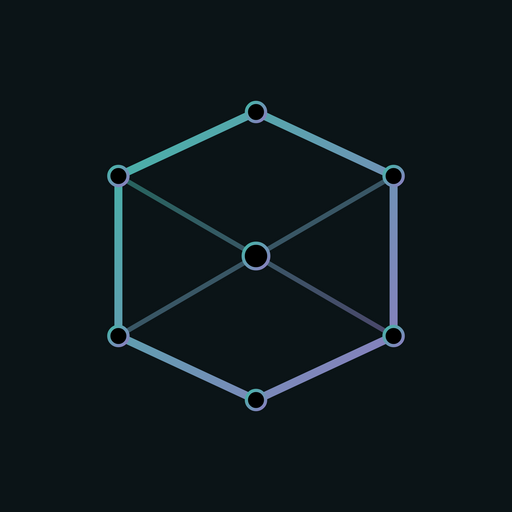
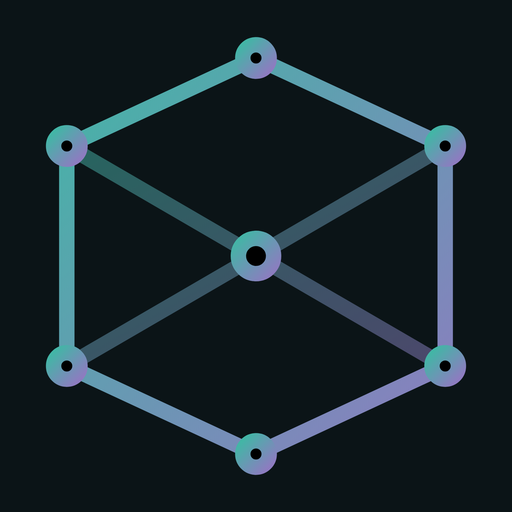
fix(brand): reemplazar assets obsoletos, corregir CSS/footer/SEO/PWA
- Reemplaza icon-512.png (hash 51e2→45cd), icon-192.png, favicon-32.png,
  apple-touch-icon.png y favicon.ico (ahora multi-size 16+32+48) con assets
  de marca eikon/pinakotheke-agon.
- icon-192.png e icon-512.png ahora TrueColorAlpha (RGBA) para Android PWA.
- Reemplaza icon.svg y favicon.svg (eran SVG genérico SV) con isotipo Agón.
- Borra asset huérfano public/logo-navbar.png (cero usos en src, causaba 404).
- Elimina exclusión ?logo del rewrite en vercel.json (asset eliminado).
- CSS: corrige var (--secondary-color) y var (--success-border) con espacio
  inválido (App.css:175 y :436). Confirmado ausente en dist/assets/*.css.
- Footer App.jsx: reemplaza enlace Enterprise/#enterprise por
  Ingeniería/#ingenieria (frente canónico correcto, bilingüe).
- index.html: añade og:image:secure_url y og:image:type=image/png;
  theme-color dual con media query prefers-color-scheme (claro+oscuro);
  favicon.ico con sizes="16x16 32x32 48x48"; apple-touch-icon con sizes="180x180".
- vite.config.js: añade purpose:'any maskable' a los iconos PWA.
- Build local limpio (npm run build, sin errores).

Changed region(s): [[0.0938, 0.0625, 0.9062, 0.9375]]

diff --git a/index.html b/index.html
@@ -4,10 +4,11 @@
     <meta charset="UTF-8" />
     <link rel="icon" type="image/svg+xml" href="/icon.svg" />
     <link rel="icon" type="image/png" sizes="32x32" href="/favicon-32.png" />
-    <link rel="icon" type="image/x-icon" href="/favicon.ico" sizes="any" />
-    <link rel="apple-touch-icon" href="/apple-touch-icon.png" />
+    <link rel="icon" type="image/x-icon" href="/favicon.ico" sizes="16x16 32x32 48x48" />
+    <link rel="apple-touch-icon" sizes="180x180" href="/apple-touch-icon.png" />
     <meta name="viewport" content="width=device-width, initial-scale=1.0" />
-    <meta name="theme-color" content="#0b1417" />
+    <meta name="theme-color" content="#0b1417" media="(prefers-color-scheme: dark)" />
+    <meta name="theme-color" content="#f5f0e8" media="(prefers-color-scheme: light)" />
     <!-- Brand fonts: Inter (UI) + JetBrains Mono (code/eyebrows) -->
     <link rel="preconnect" href="https://fonts.googleapis.com" />
     <link rel="preconnect" href="https://fonts.gstatic.com" crossorigin />
@@ -32,6 +33,8 @@
     <meta property="og:title" content="Agón — moderador de debates · Mouseîon" />
     <meta property="og:description" content="Agón es un moderador de debates profesional y gratuito: timer, turnos, estadísticas, modo offline PWA y simulador de dinámicas de hipergrados. Parte del ecosistema Mouseîon." />
     <meta property="og:image" content="https://agon.stevenvallejo.com/og-image.png" />
+    <meta property="og:image:secure_url" content="https://agon.stevenvallejo.com/og-image.png" />
+    <meta property="og:image:type" content="image/png" />
     <meta property="og:image:width" content="2400" />
     <meta property="og:image:height" content="1260" />
     <meta property="og:image:alt" content="Agón — moderador de debates" />

diff --git a/src/App.css b/src/App.css
@@ -172,7 +172,7 @@ a:focus,
 }
 
 .btn-outline-secondary {
-  color: var (--secondary-color);
+  color: var(--secondary-color);
   border-color: var(--secondary-border);
   background-color: transparent;
 }
@@ -433,7 +433,7 @@ select:focus {
 
 .alert-success {
   background-color: var(--success-color);
-  border-color: var (--success-border);
+  border-color: var(--success-border);
   color: var(--success-text);
 }
 

diff --git a/vite.config.js b/vite.config.js
@@ -19,8 +19,8 @@ export default defineConfig({
         scope: '/',
         start_url: '/',
         icons: [
-          { src: 'icon-192.png', sizes: '192x192', type: 'image/png' },
-          { src: 'icon-512.png', sizes: '512x512', type: 'image/png' }
+          { src: 'icon-192.png', sizes: '192x192', type: 'image/png', purpose: 'any maskable' },
+          { src: 'icon-512.png', sizes: '512x512', type: 'image/png', purpose: 'any maskable' }
         ]
       },
       workbox: {

diff --git a/src/App.jsx b/src/App.jsx
@@ -564,7 +564,7 @@ export default function App() {
           <li><a href="https://stevenvallejo.com/es#filosofia" target="_blank" rel="noopener noreferrer">{data.language === 'es' ? 'Filosofía' : 'Philosophy'}</a></li>
           <li><a href="https://stevenvallejo.com/es#ciencias" target="_blank" rel="noopener noreferrer">{data.language === 'es' ? 'Ciencias' : 'Sciences'}</a></li>
           <li><a href="https://stevenvallejo.com/es#informatica" target="_blank" rel="noopener noreferrer">{data.language === 'es' ? 'Informática' : 'Computing'}</a></li>
-          <li><a href="https://stevenvallejo.com/es#enterprise" target="_blank" rel="noopener noreferrer">Enterprise</a></li>
+          <li><a href="https://stevenvallejo.com/es#ingenieria" target="_blank" rel="noopener noreferrer">{data.language === 'es' ? 'Ingeniería' : 'Engineering'}</a></li>
         </ul>
         <p className="sv-ecosystem-footer-authorship">
           {data.language === 'es'